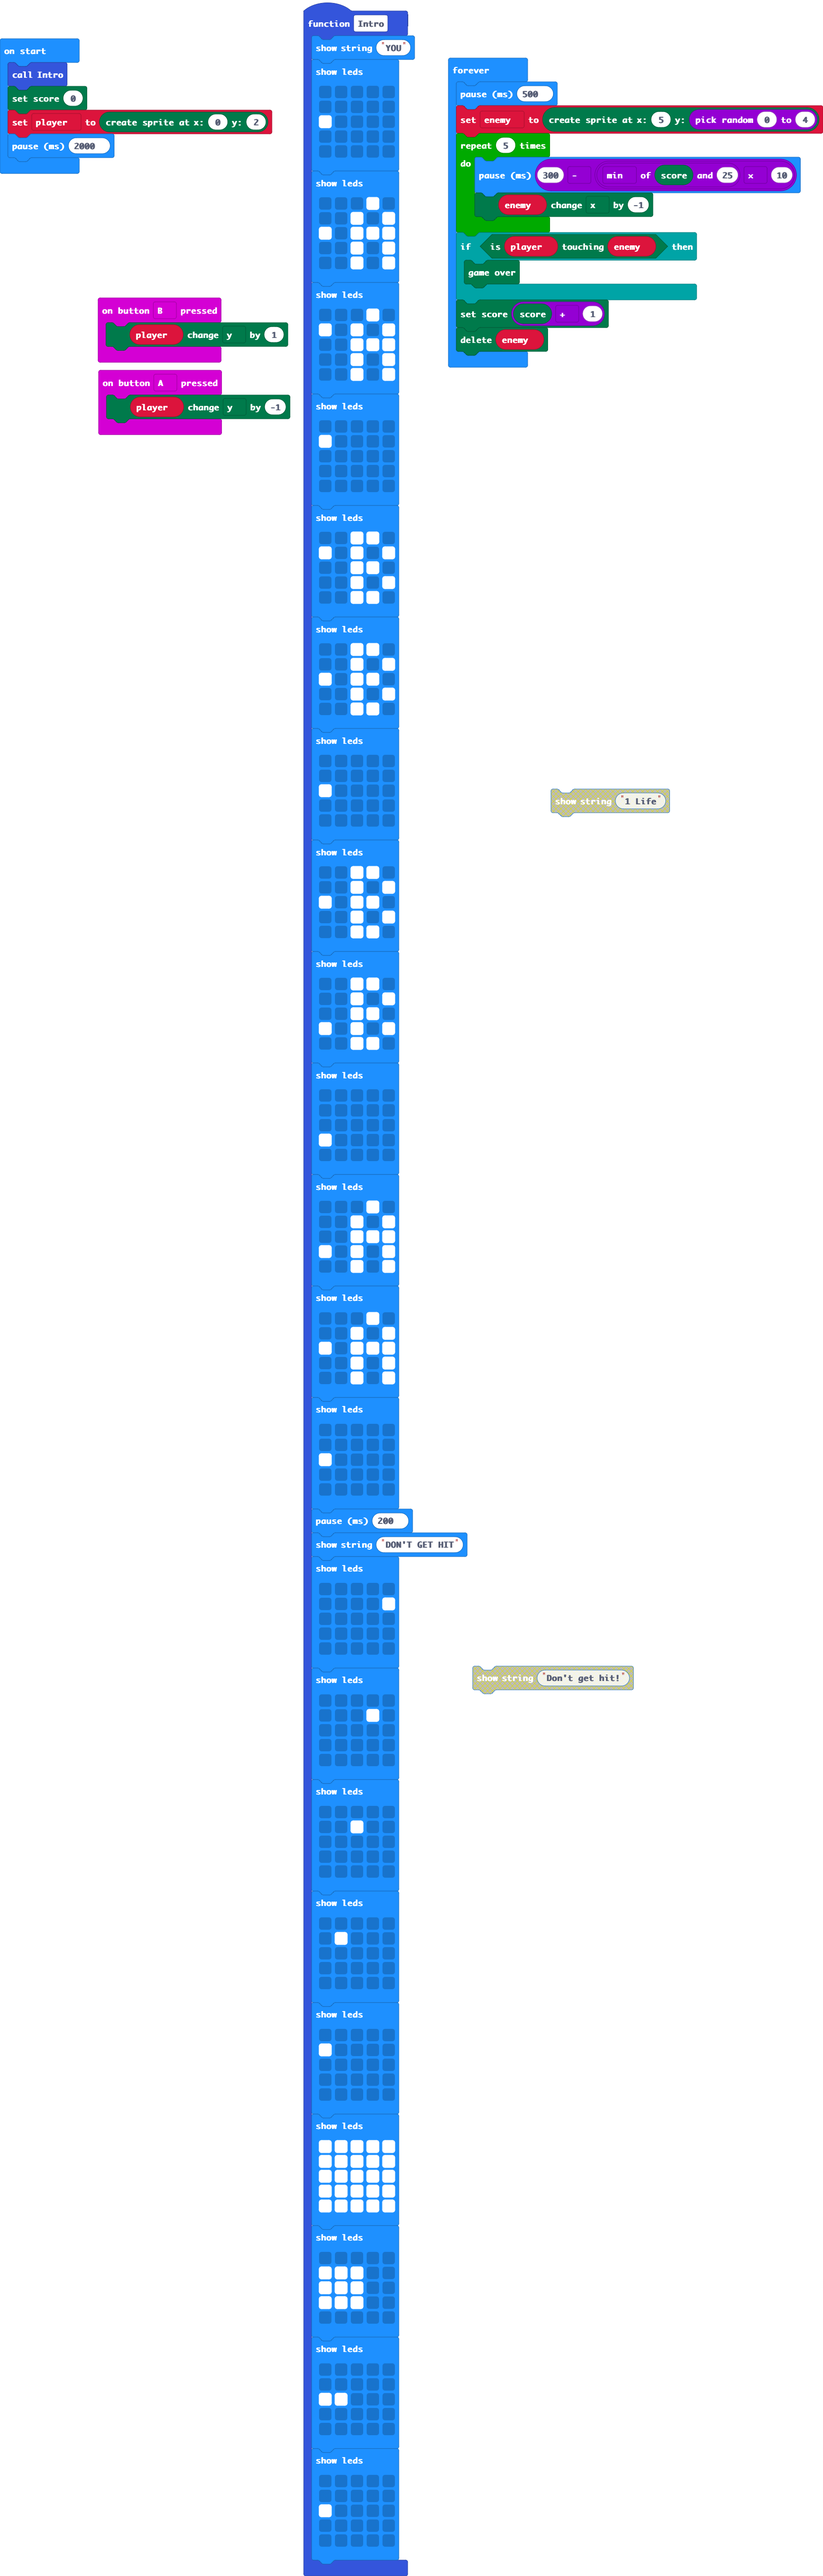
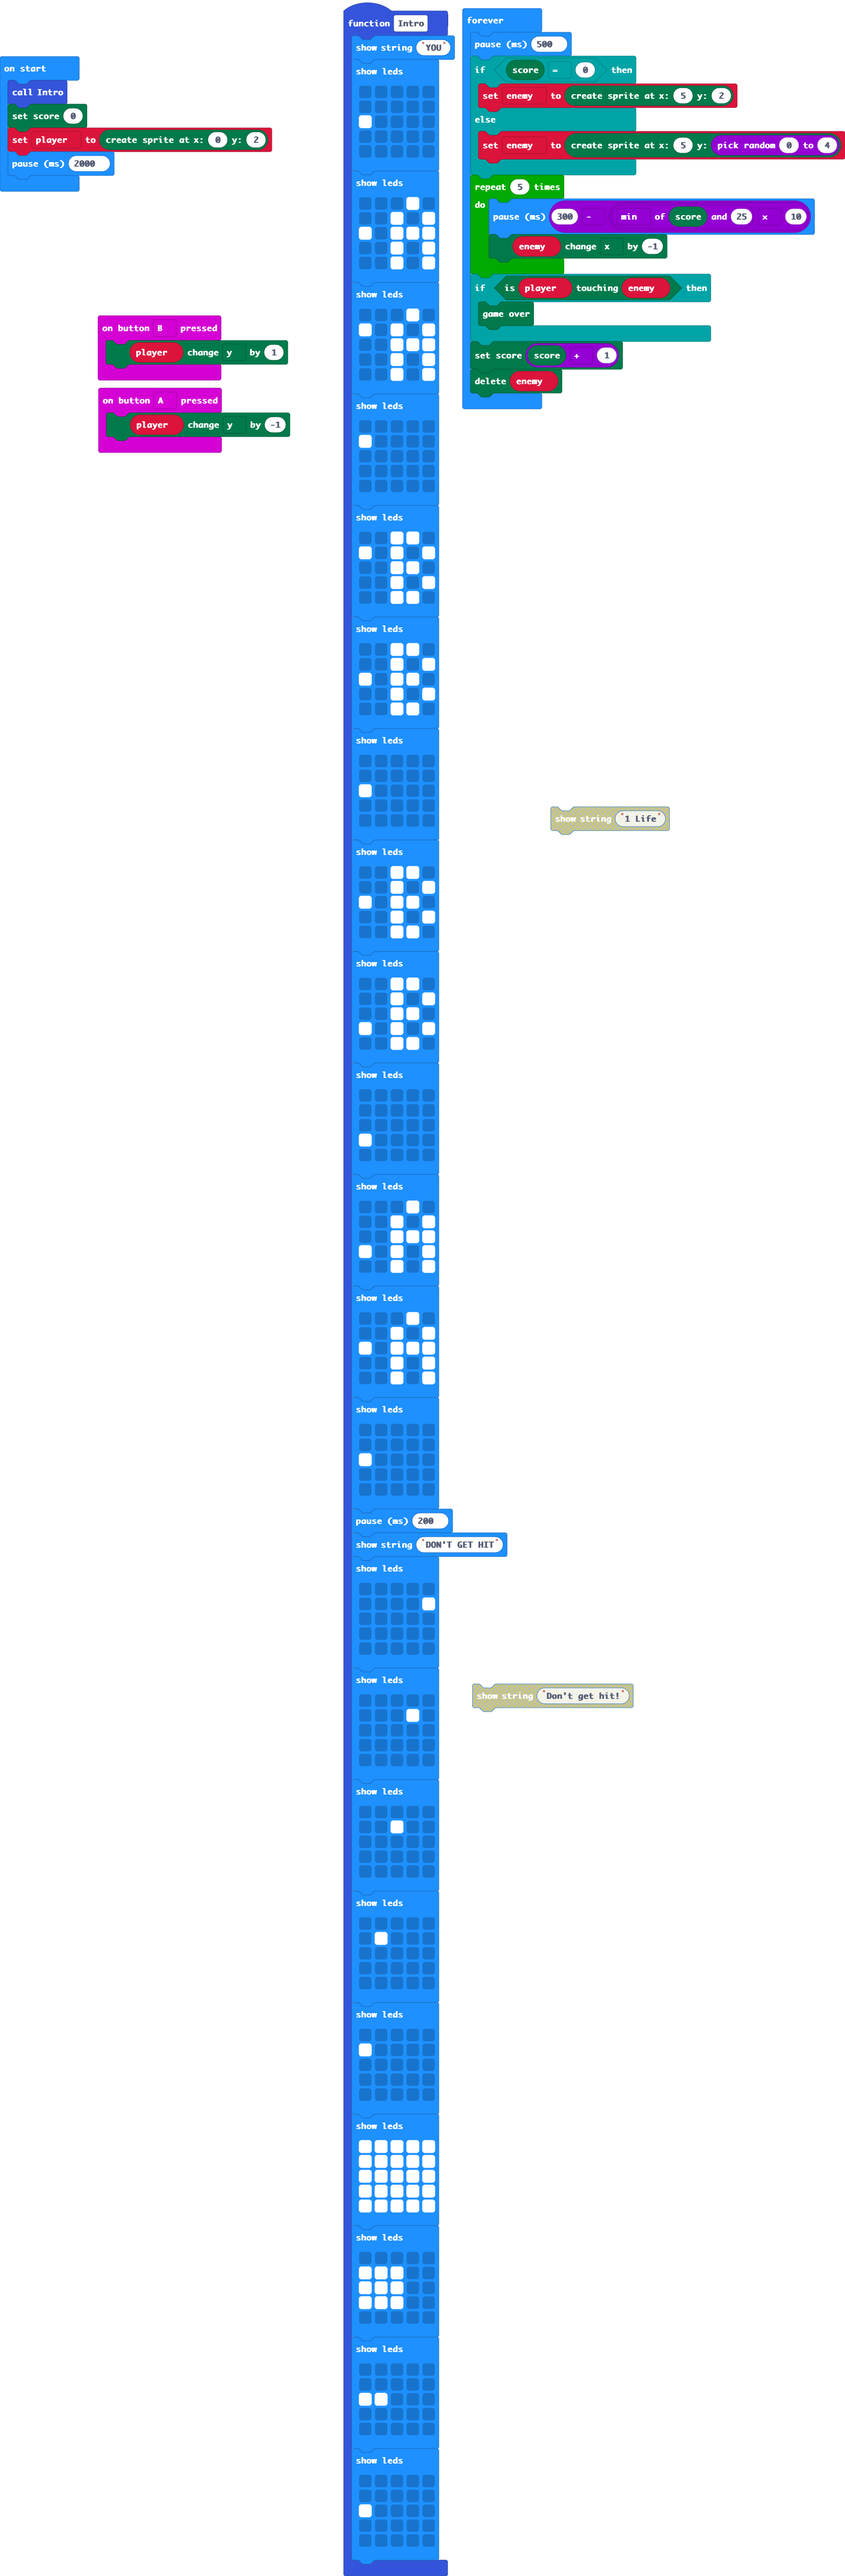
added first direct hit

diff --git a/main.ts b/main.ts
@@ -171,7 +171,11 @@ player = game.createSprite(0, 2)
 basic.pause(2000)
 basic.forever(function () {
     basic.pause(500)
-    enemy = game.createSprite(5, randint(0, 4))
+    if (game.score() == 0) {
+        enemy = game.createSprite(5, 2)
+    } else {
+        enemy = game.createSprite(5, randint(0, 4))
+    }
     for (let index = 0; index < 5; index++) {
         basic.pause(300 - Math.min(game.score(), 25) * 10)
         enemy.change(LedSpriteProperty.X, -1)
